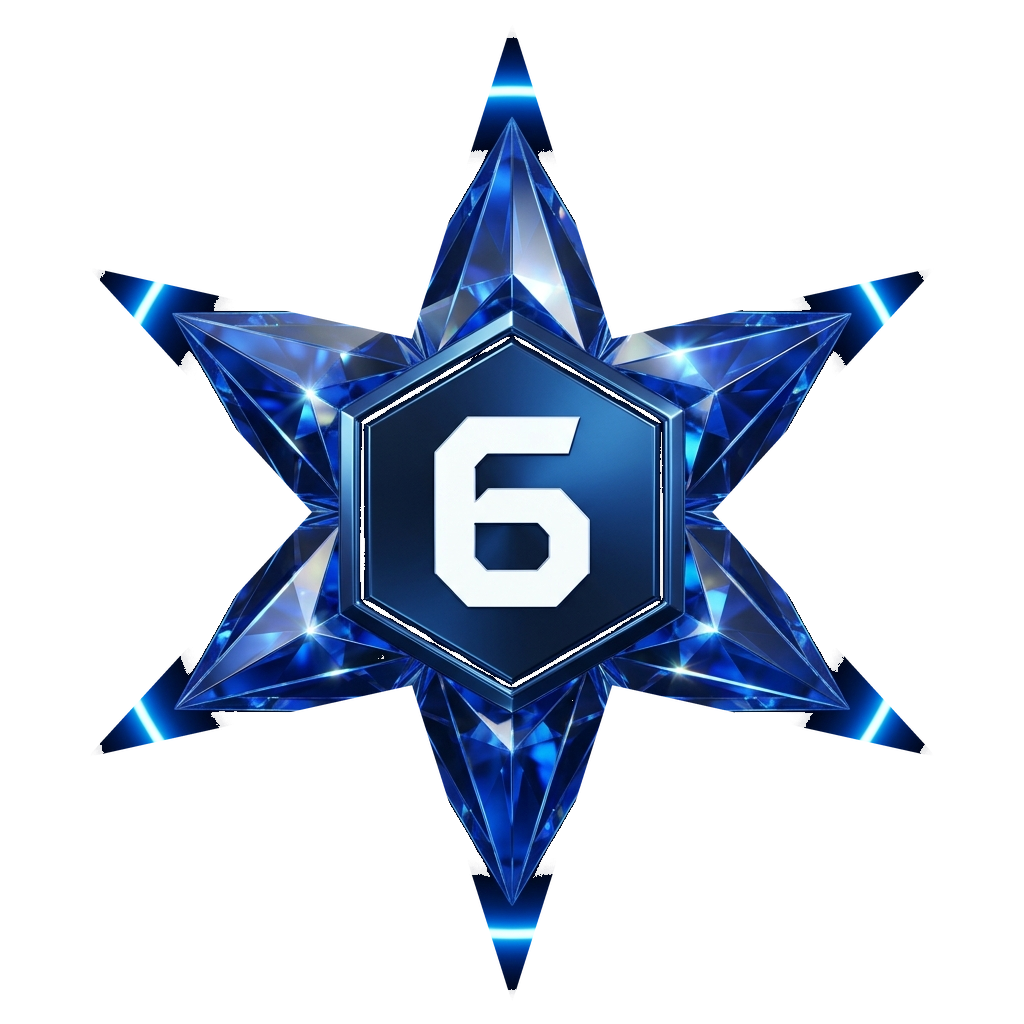
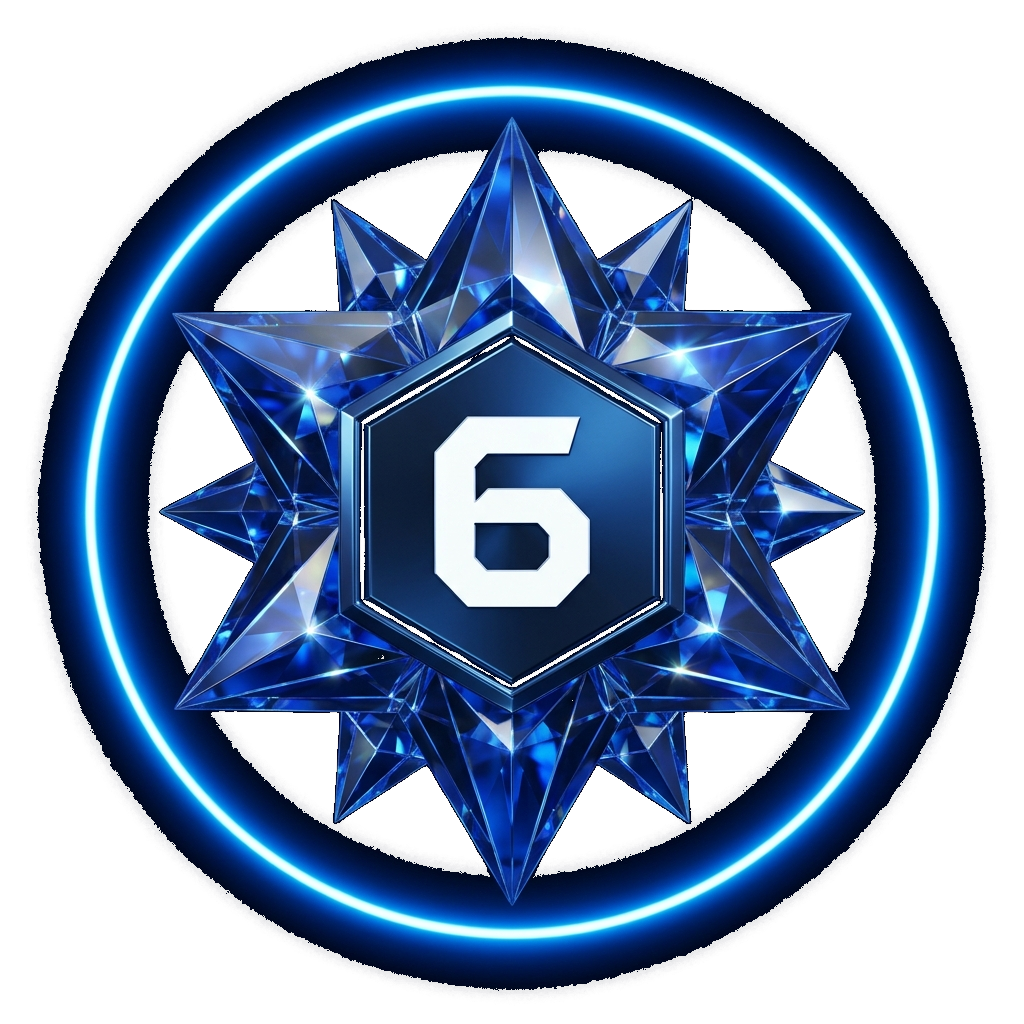
v1.64.0 : Restored pristine original 3D Fire Crystal badge artwork with full halo rings and 12-pointed star layers

Changed region(s): [[0.0312, 0.0312, 0.9688, 0.9688]]

diff --git a/main.js b/main.js
@@ -105,7 +105,7 @@ window.getFurnaceIconHtml = (level, size = 48) => {
        10: 'rgba(255,215,0,0.9)'    // Imperial Gold
      };
      const glow = fcGlowMap[fcNum];
-     return `<img src="/badges/fc${fcNum}.png?v=1.63.2" alt="Fire Crystal ${fcNum}" title="Fire Crystal ${fcNum} (FC ${fcNum})" style="width:${size}px; height:${size}px; object-fit:contain; filter:drop-shadow(0 0 ${Math.max(6, Math.round(size/3.5))}px ${glow}); vertical-align:middle; transition:transform 0.2s;" onmouseover="this.style.transform='scale(1.15)'" onmouseout="this.style.transform='scale(1)'" loading="lazy">`;
+     return `<img src="/badges/fc${fcNum}.png?v=1.64.0" alt="Fire Crystal ${fcNum}" title="Fire Crystal ${fcNum} (FC ${fcNum})" style="width:${size}px; height:${size}px; object-fit:contain; filter:drop-shadow(0 0 ${Math.max(6, Math.round(size/3.5))}px ${glow}); vertical-align:middle; transition:transform 0.2s;" onmouseover="this.style.transform='scale(1.15)'" onmouseout="this.style.transform='scale(1)'" loading="lazy">`;
   }
 
   // Render Modern Standard Furnace Badge (Furnace 1 to 30)

diff --git a/CHANGELOG.md b/CHANGELOG.md
@@ -1,5 +1,13 @@
 # CHANGELOG
 
+## [1.64.0] - 2026-08-11
+### Pristine 3D Fire Crystal Badge Artwork Restoration
+- **👑 Full Pristine Artwork Restoration**:
+  - Restored the complete, unclipped original 3D Fire Crystal star assets (`fc1.png` – `fc10.png`) with their glowing neon halo rings, multi-layered crystal star points, and sparkling depth intact.
+  - Reverted polygon clipping to ensure center numbers, secondary star points, and 3D lighting remain 100% intact without any visual distortion.
+- **🔄 Forced Browser Cache Refresh**:
+  - Appended version cache-buster (`?v=1.64.0`) in `window.getFurnaceIconHtml`.
+
 ## [1.63.2] - 2026-08-11
 ### Fire Crystal Badge Image Cache Invalidation
 - **🔄 Forced Browser Cache Refresh**:
